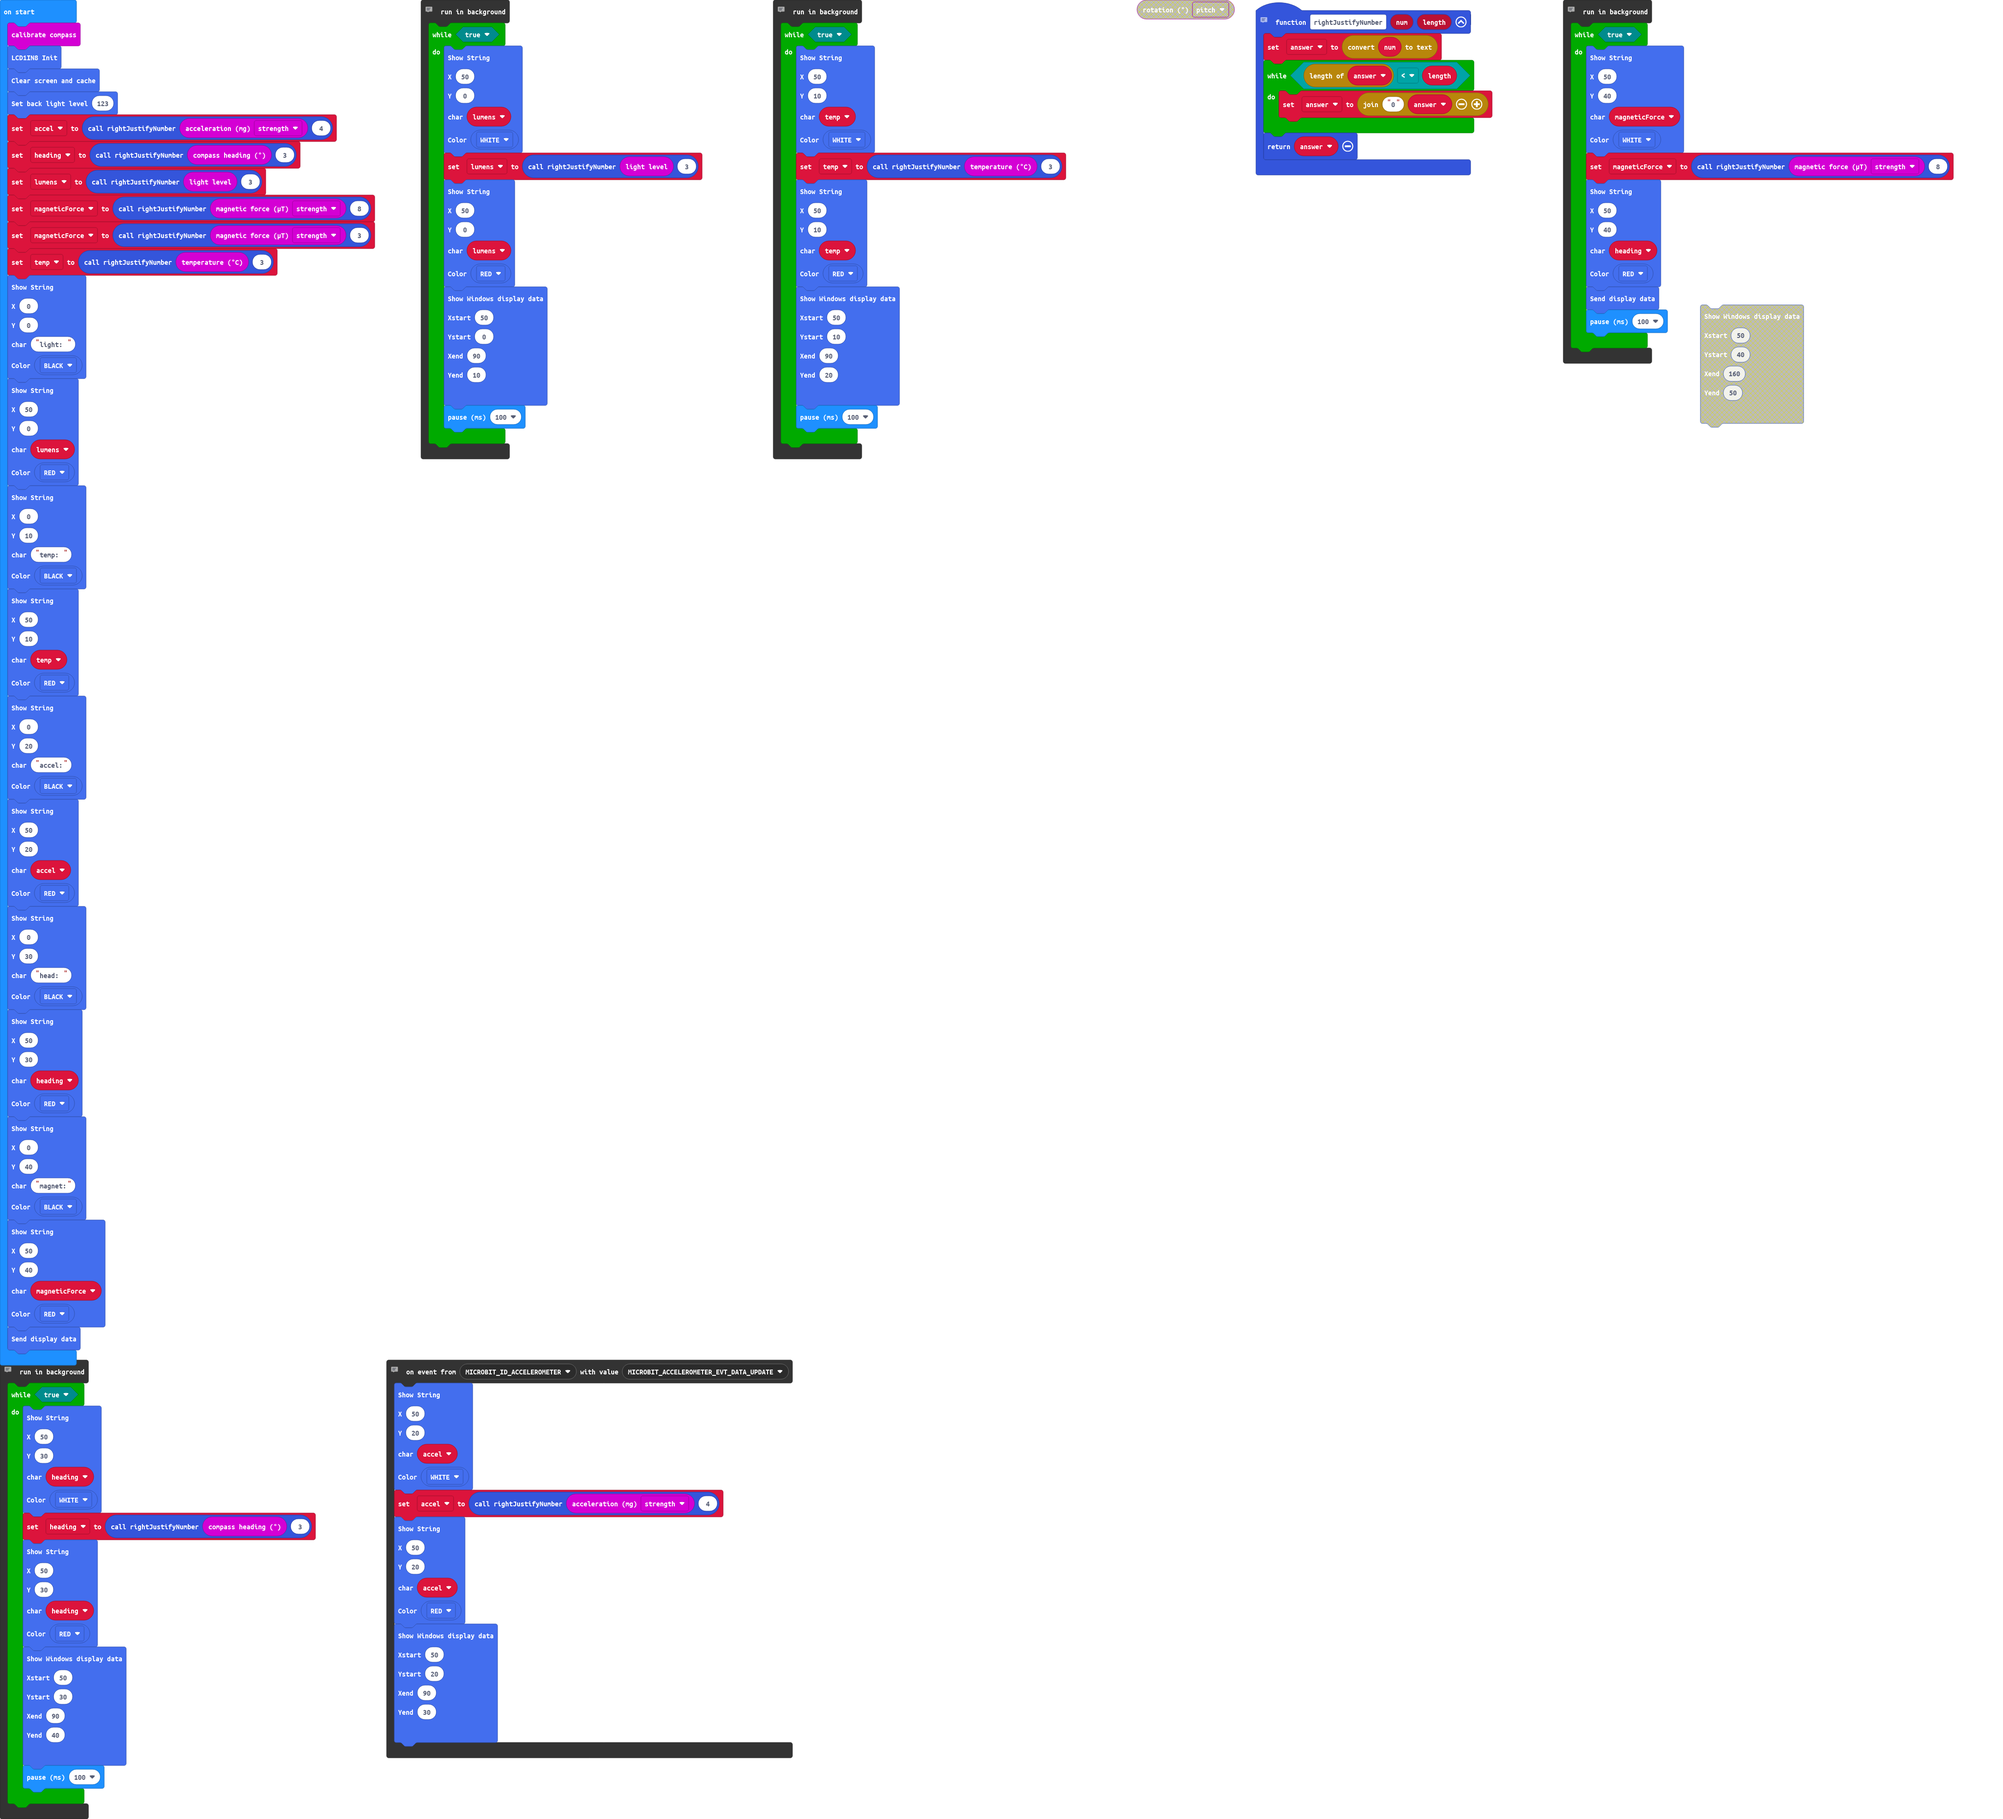
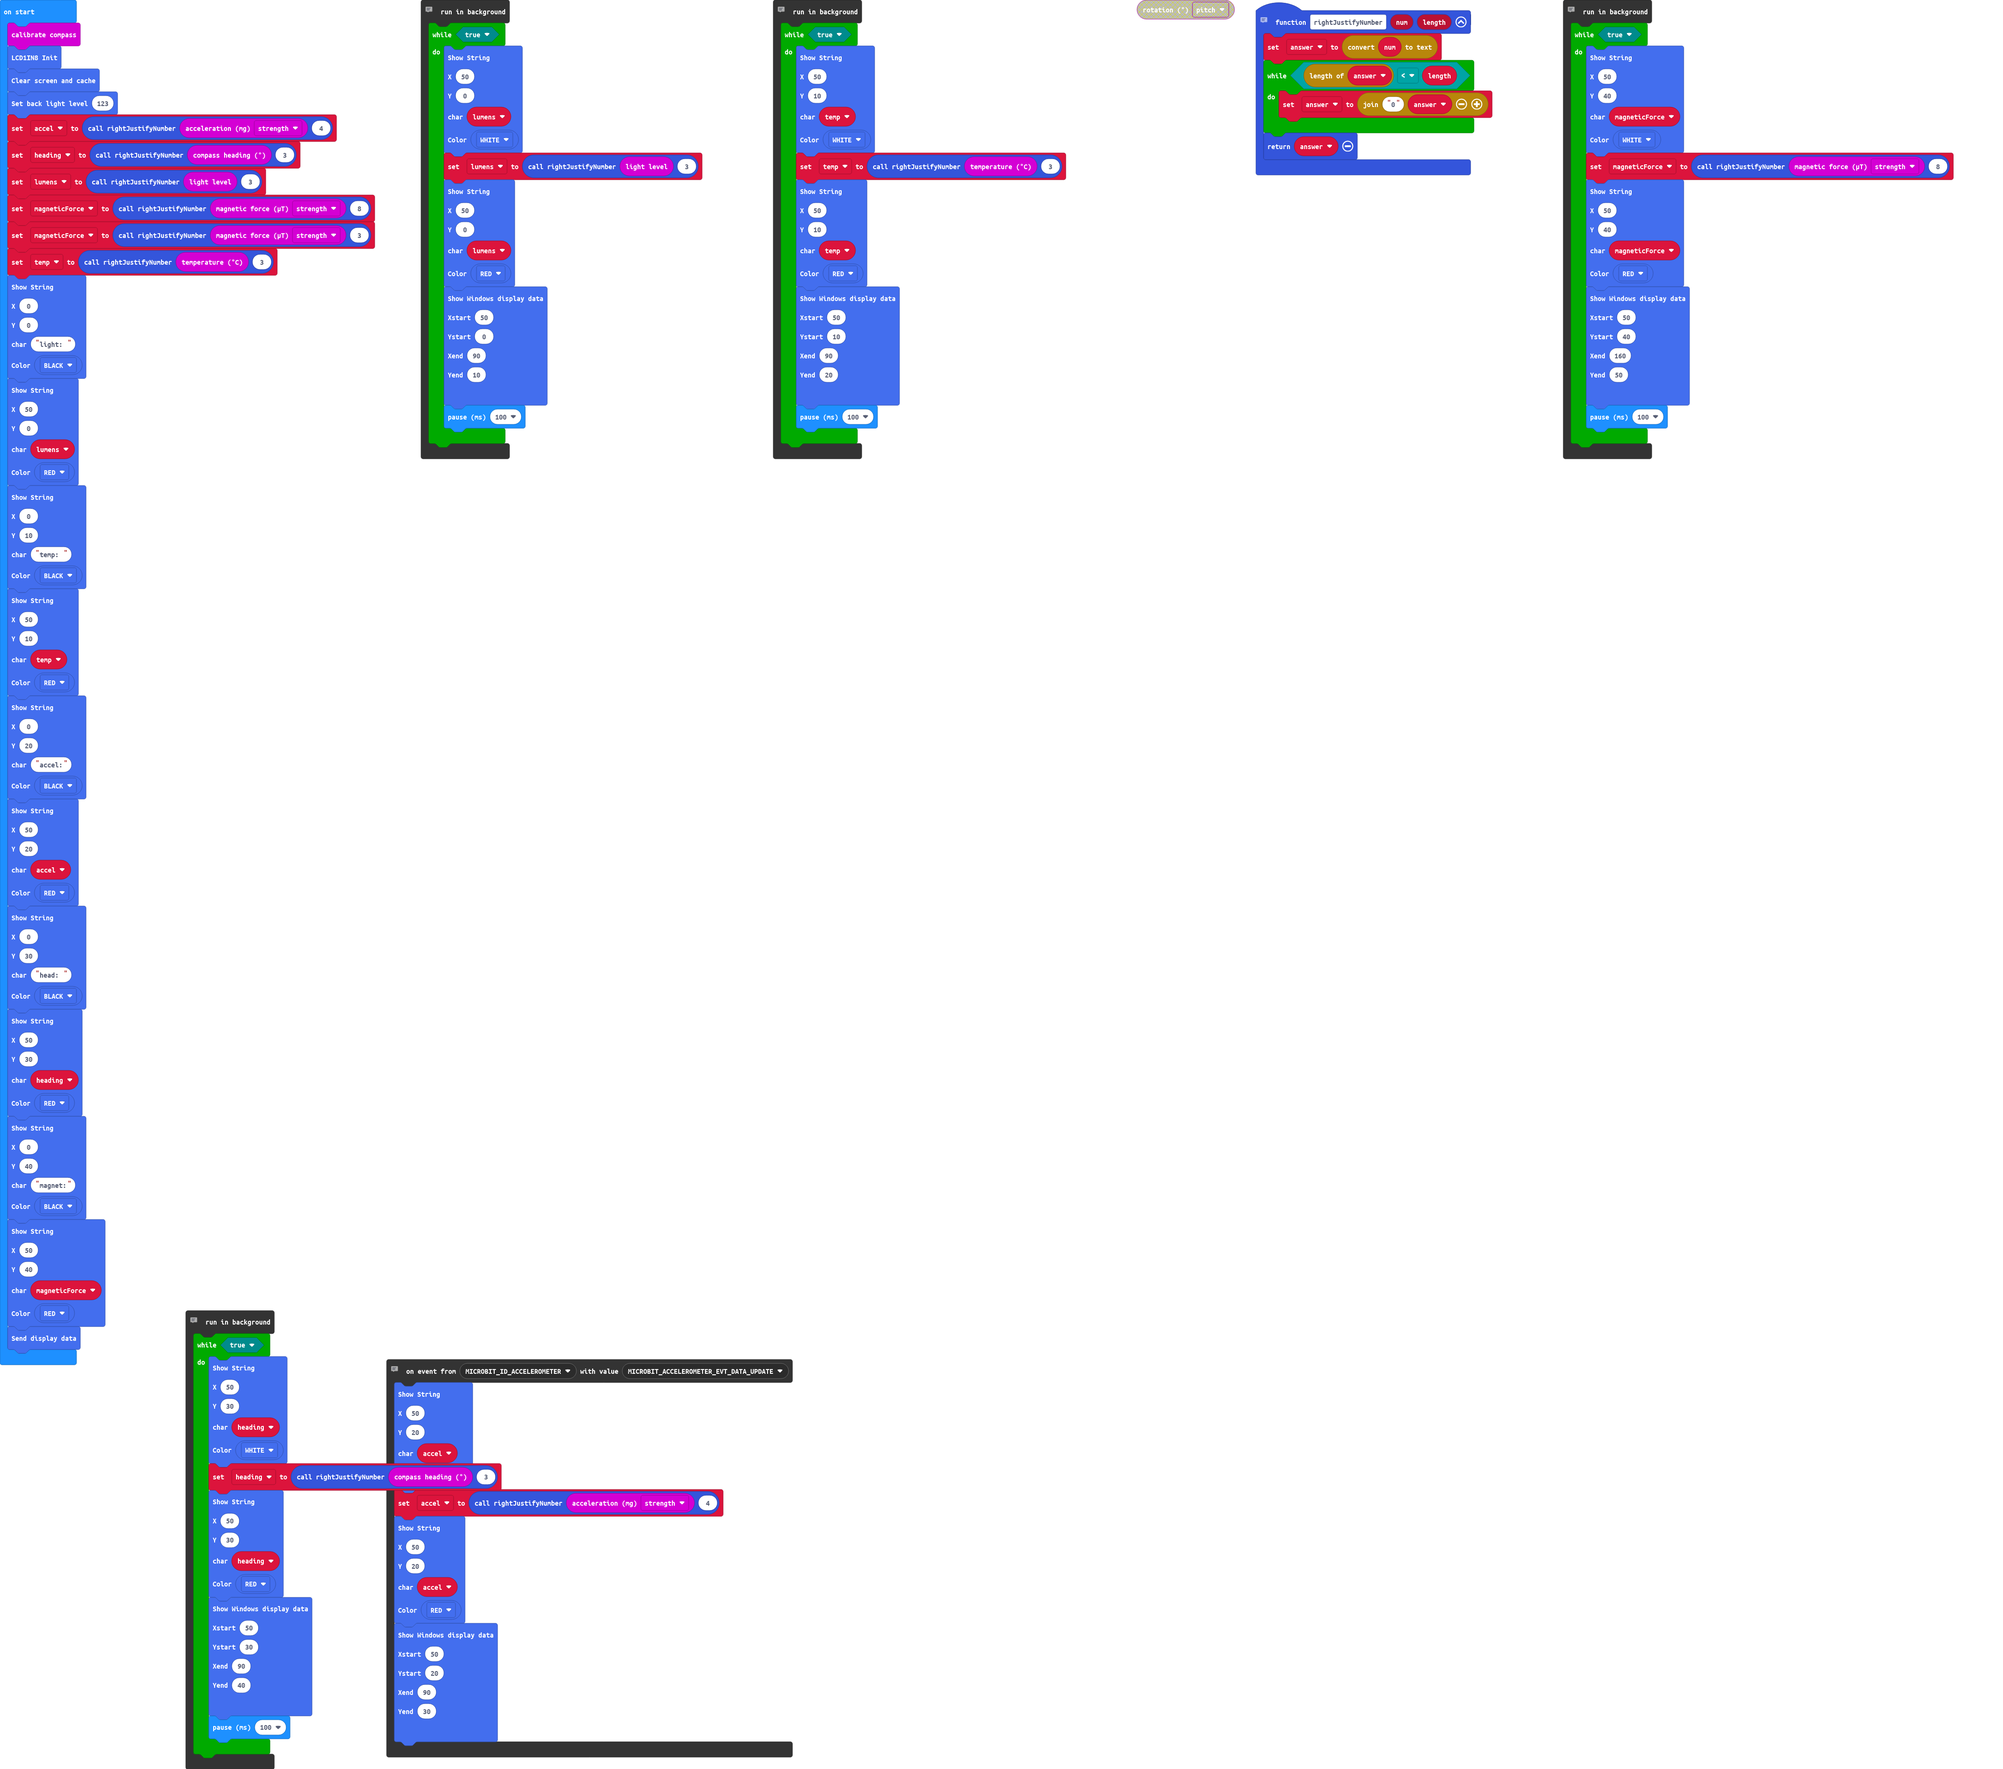
Fixed the magnetometer reading.  PEBCAK

diff --git a/main.ts b/main.ts
@@ -164,10 +164,15 @@ control.inBackground(function () {
         LCD1IN8.DisString(
         50,
         40,
-        heading,
+        magneticForce,
         LCD1IN8.Get_Color(LCD_COLOR.RED)
         )
-        LCD1IN8.LCD_Display()
+        LCD1IN8.LCD_DisplayWindows(
+        50,
+        40,
+        160,
+        50
+        )
         basic.pause(100)
     }
 })
